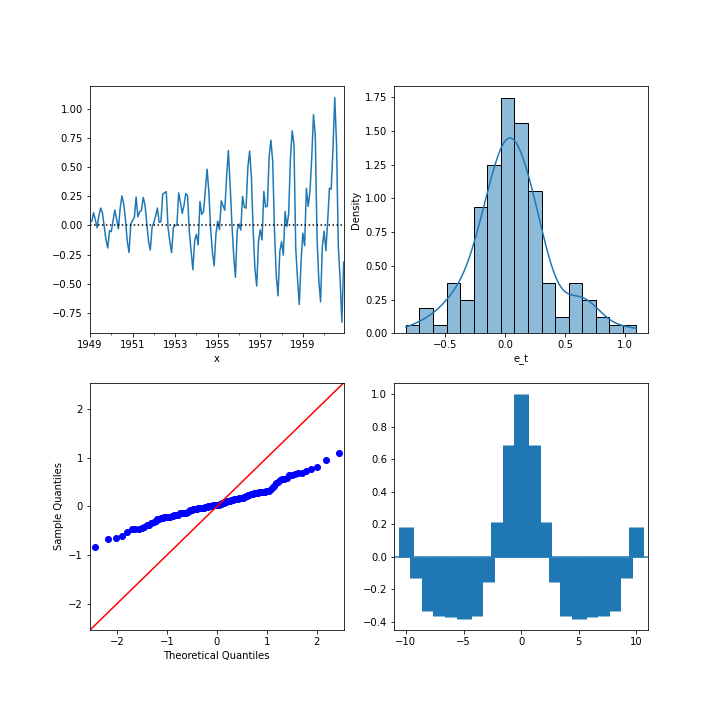
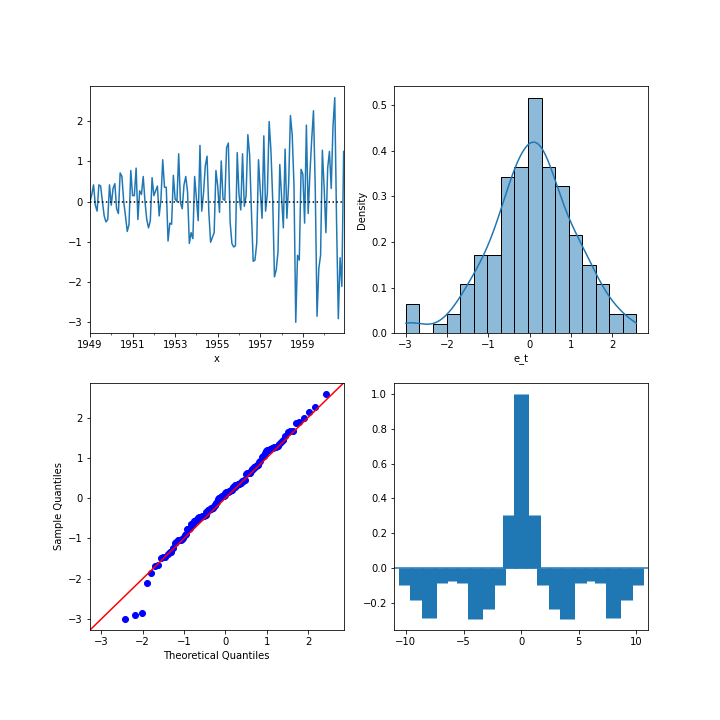
Fixed maximum likelihood

diff --git a/Part 1/LLM.py b/Part 1/LLM.py
@@ -50,8 +50,11 @@ class LLM:
         if var_e is None or var_h is None:
             if ML_start is None:
                 raise ValueError('Please specify ML_Start or var_e and var_h')         
-            self.res = self.Kalman_ML(ML_start)
-            self.var_e, self.var_h = self.res.x
+            self.q = self.Kalman_ML_q(ML_start)[0] # Get q from MLE
+            self.var_e = self.var_e_hat # Var E hat calculated in MLE
+            self.var_h = self.var_e * self.q # Calculate variance of h
+            self.a_1 = self.df['y_t'][0]
+            self.P_1 = self.var_e + self.var_h
             
         # If variances are specified, starting values for a_t and P_t must be specified too 
         elif a_1 is None or P_1 is None:
@@ -61,6 +64,7 @@ class LLM:
         else:
             self.var_e = var_e
             self.var_h = var_h
+            self.q = self.var_h / self.var_e
             self.a_1 = a_1
             self.P_1 = P_1
     
@@ -257,35 +261,6 @@ class LLM:
         z = ss.norm.ppf(pct) # Get quantile of desired percentage
         self.df[col+'_upper_c'] = self.df[col] + z * np.sqrt(self.df[var])
         self.df[col+'_lower_c'] = self.df[col] - z * np.sqrt(self.df[var])
-        
-    def Kalman_ML(self, starting_vars):
-        def ML_fun(vars):
-            var_e = vars[0]
-            var_h = vars[1]
-            q = var_h/var_e
-            for t, y_t in enumerate(self.df['y_t'][1:]):
-                # Initialize Values
-                if t == 0 :
-                    a_t = self.df['y_t'][0] # Initialize at y1
-                    P_t = var_e + var_h
-                
-                # Apply the filter
-                a_tt, P_tt, a_t, P_t, v_t, F_t, K_t = self.k_filter(y_t=y_t, a_t=a_t, P_t=P_t, 
-                                                            var_e=var_e, var_h=var_h)
-                
-                # Store output
-                self.df.loc[t, ['a_t','P_t','v_t','F_t','K_t']] = [a_tt, P_tt, v_t, F_t, K_t]
-            
-            self.df['F_star_t'] = self.df['F_t'] / var_e
-            var_e_hat = 1 / (self.N - 1) * np.sum(self.df['v_t'][1:] ** 2 / self.df['F_star_t'][1:])
-
-            return -self.N/2 * np.log(2 * np.pi) - (self.N - 1) / 2 - \
-                (self.N - 1) / 2 * np.log(var_e_hat) - \
-                    0.5 * np.sum(np.log(self.df['F_star_t'][1:]))
-                    
-        bnds = [(1e-10, None), (1e-10, None)]
-        results = minimize(ML_fun, starting_vars, method = 'L-BFGS-B', bounds = bnds)
-        return results
     
     def Kalman_ML_q(self, q0):
         def ML_fun_q(q):
@@ -306,45 +281,18 @@ class LLM:
                 self.df.loc[t, ['a_t','P_t','v_t','F_t','K_t']] = [a_tt, P_tt, v_t, F_t, K_t]
             
             self.df['F_star_t'] = self.df['F_t'] / var_e
-            var_e_hat = 1 / (self.N - 1) * np.sum(self.df['v_t'][1:] ** 2 / self.df['F_star_t'][1:])
-
-            return -self.N/2 * np.log(2 * np.pi) - (self.N - 1) / 2 - \
-                (self.N - 1) / 2 * np.log(var_e_hat) - \
+            self.var_e_hat = 1 / (self.N - 1) * np.sum(self.df['v_t'][1:] ** 2 / self.df['F_star_t'][1:])
+            # print(f'var_e: {self.var_e_hat}')
+            # print(f'q: {q}')
+            # print(f'var_h_hat: {q * self.var_e_hat}')
+            # print('--------')
+            
+            ll = -self.N/2 * np.log(2 * np.pi) - (self.N - 1) / 2 - \
+                (self.N - 1) / 2 * np.log(self.var_e_hat) - \
                     0.5 * np.sum(np.log(self.df['F_star_t'][1:]))
+                    
+            return -ll
                     
         bnds = [(1e-10, None)]
         results = minimize(ML_fun_q, [q0], method = 'L-BFGS-B', bounds = bnds)
-        return results
-    
-    
-    def Kalman_avg_ML(self, starting_vars):
-        def ML_avg_fun(vars):
-            var_e = vars[0]
-            var_h = vars[1]
-            q = var_h/var_e
-            
-            total_ll = 0
-            for t, y_t in enumerate(self.df['y_t'][1:]):
-                # Initialize Values
-                if t == 0 :
-                    a_t = self.df['y_t'][0] # Initialize at y1
-                    P_t = var_e + var_h
-                
-                # Apply the filter
-                a_tt, P_tt, a_t, P_t, v_t, F_t, K_t = self.k_filter(y_t=y_t, a_t=a_t, P_t=P_t, 
-                                                                     var_e=var_e, var_h=var_h)
-                
-                # Store output
-                self.df.loc[t, ['a_t','P_t','v_t','F_t','K_t']] = [a_tt, P_tt, v_t, F_t, K_t]
-                
-                # Total Log likelihood
-                total_ll += -self.N/2 * np.log(2 * np.pi) - \
-                    (1/2) * np.sum(np.log(self.df['F_t'][1:])) - \
-                    (1/2) * np.sum(self.df['v_t'][1:] ** 2 * self.df['F_t'][1:])
-            
-            return total_ll / self.N # Average LL
-                    
-                    
-        bnds = [(1e-10, None), (1e-10, None)]
-        results = minimize(ML_avg_fun, starting_vars, method = 'L-BFGS-B', bounds = bnds)
-        return results
+        return results['x']

diff --git a/Part 1/Part1_Figures.py b/Part 1/Part1_Figures.py
@@ -200,24 +200,24 @@ data = pd.read_excel('../Data/Nile.xlsx', names = ['x', 'y_t'])
 nile_llm = LLM(data=data, var_e=15099, var_h=1469.1, a_1=0, P_1=10**7)
 
 # Set parameters
-missing_vals = [{'start': 21, 'stop': 40},
+missing_vals_nile = [{'start': 21, 'stop': 40},
                 {'start': 61, 'stop': 80}] # Indices for missing vals
-forecast_n = 30 # Number of samples to forecast
+forecast_n_nile = 30 # Number of samples to forecast
 # %%
 nile_llm.kalman_filter()
 nile_llm.state_smooth()
 nile_llm.disturbance_smooth()
 nile_llm.auxilary_residuals()
-nile_llm.missing_filter(missing_ranges=missing_vals)
+nile_llm.missing_filter(missing_ranges=missing_vals_nile)
 nile_llm.missing_smooth()
-nile_llm.forecast(j=forecast_n)
+nile_llm.forecast(j=forecast_n_nile)
 
 # Confidence intervals
 nile_llm.get_conf_intervals('a_t', 'P_t', pct=.90)
 nile_llm.get_conf_intervals('alpha_hat_t', 'V_t', pct=.90)
 # nile_llm.get_conf_intervals('a_t', 'P_t', pct=.50)
 # nile_llm.get_conf_intervals('alpha_hat_t', 'V_t', pct=.50)
-
+# %%
 # Generate and Save Figures
 fig_1(nile_llm.df, df_name = 'nile', ylim_0=(450,1400), xlim_0=(1865,1975),ylim_2=(-450,450), ylim_3=(20000,32500))
 fig_2(nile_llm.df, df_name = 'nile', ylim_0=(450,1400), xlim_0=(1865,1975),ylim_1=(2200, 4100), ylim_3=(6e-5, .00011))
@@ -231,15 +231,19 @@ fig_8(nile_llm.df, df_name = 'nile', ylim_0=(-3,2.2), ylim_2=(-3,2.2))
 data2= pd.read_csv('../Data/AirPassengers.csv')
 data2['Month'] = pd.to_datetime(data2['Month']).dt.to_period('M') # Convert datatime to months
 data2.columns = ['x', 'y_t'] # Rename columns
+# Set parameters
+missing_vals_air = [{'start': 21, 'stop': 40},
+                {'start': 61, 'stop': 80}] # Indices for missing vals
+forecast_n_air = 30 # Number of samples to forecast
 # %%
-air_llm = LLM(data=data2, var_e=15099, var_h=1469.1, a_1=0, P_1=10**7)
+air_llm = LLM(data=data2, ML_start = [1])
 air_llm.kalman_filter()
 air_llm.state_smooth()
 air_llm.disturbance_smooth()
 air_llm.auxilary_residuals()
-air_llm.missing_filter(missing_ranges=missing_vals)
+air_llm.missing_filter(missing_ranges=missing_vals_air)
 air_llm.missing_smooth()
-air_llm.forecast(j=forecast_n)
+air_llm.forecast(j=forecast_n_air)
 
 # Confidence intervals
 air_llm.get_conf_intervals('a_t', 'P_t', pct=.90)
